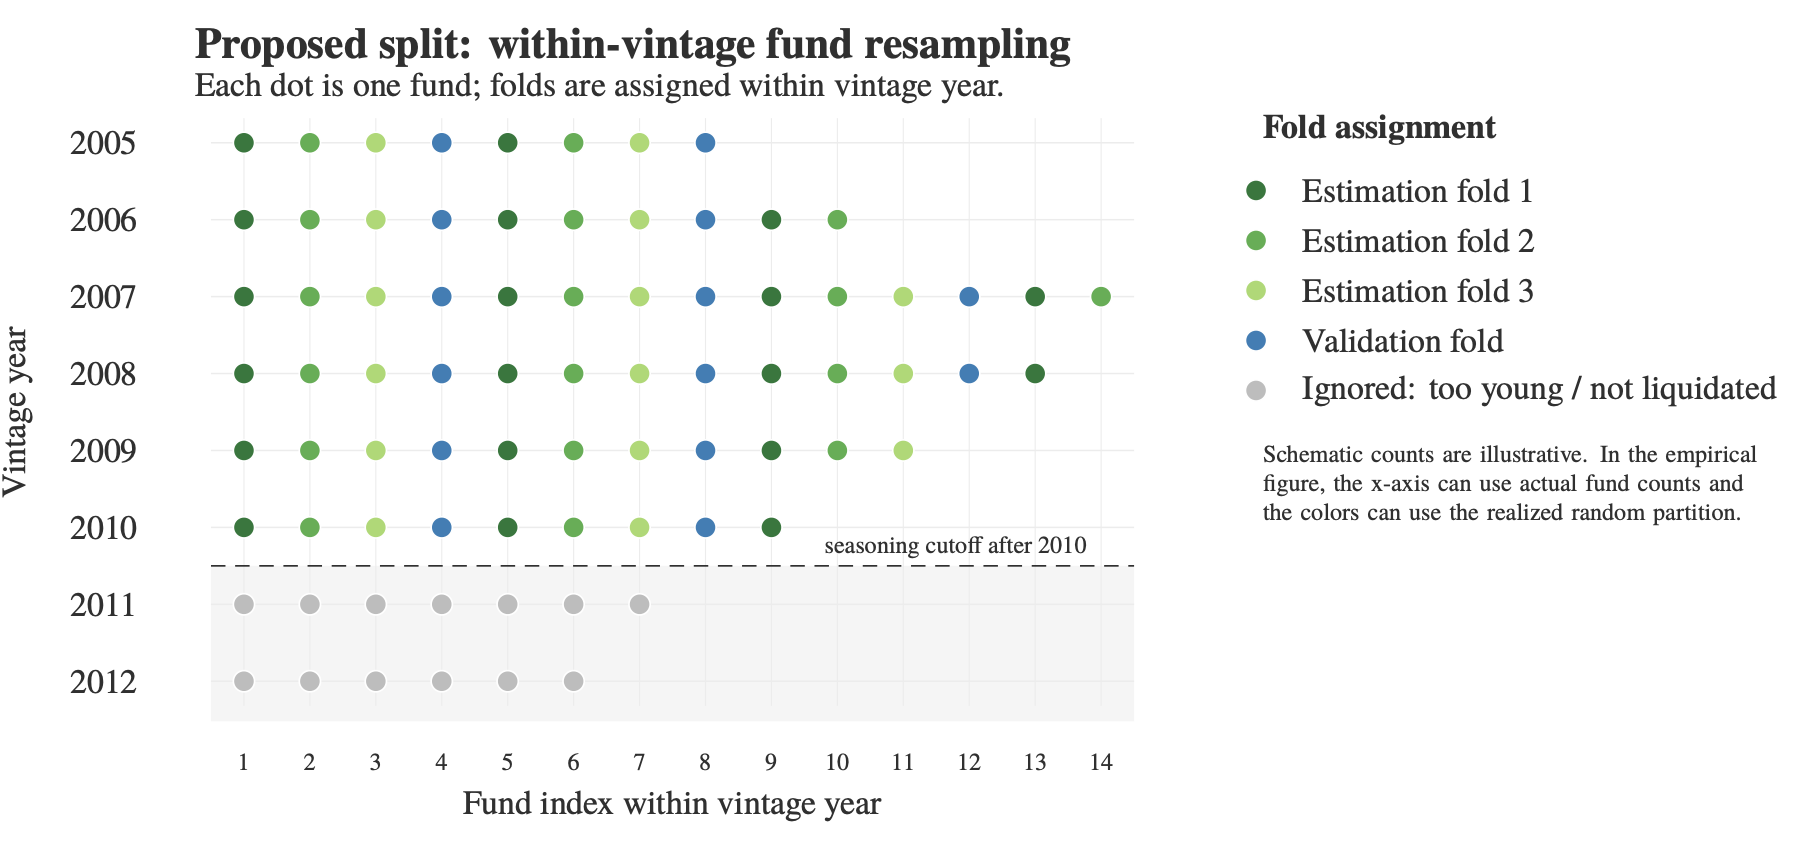
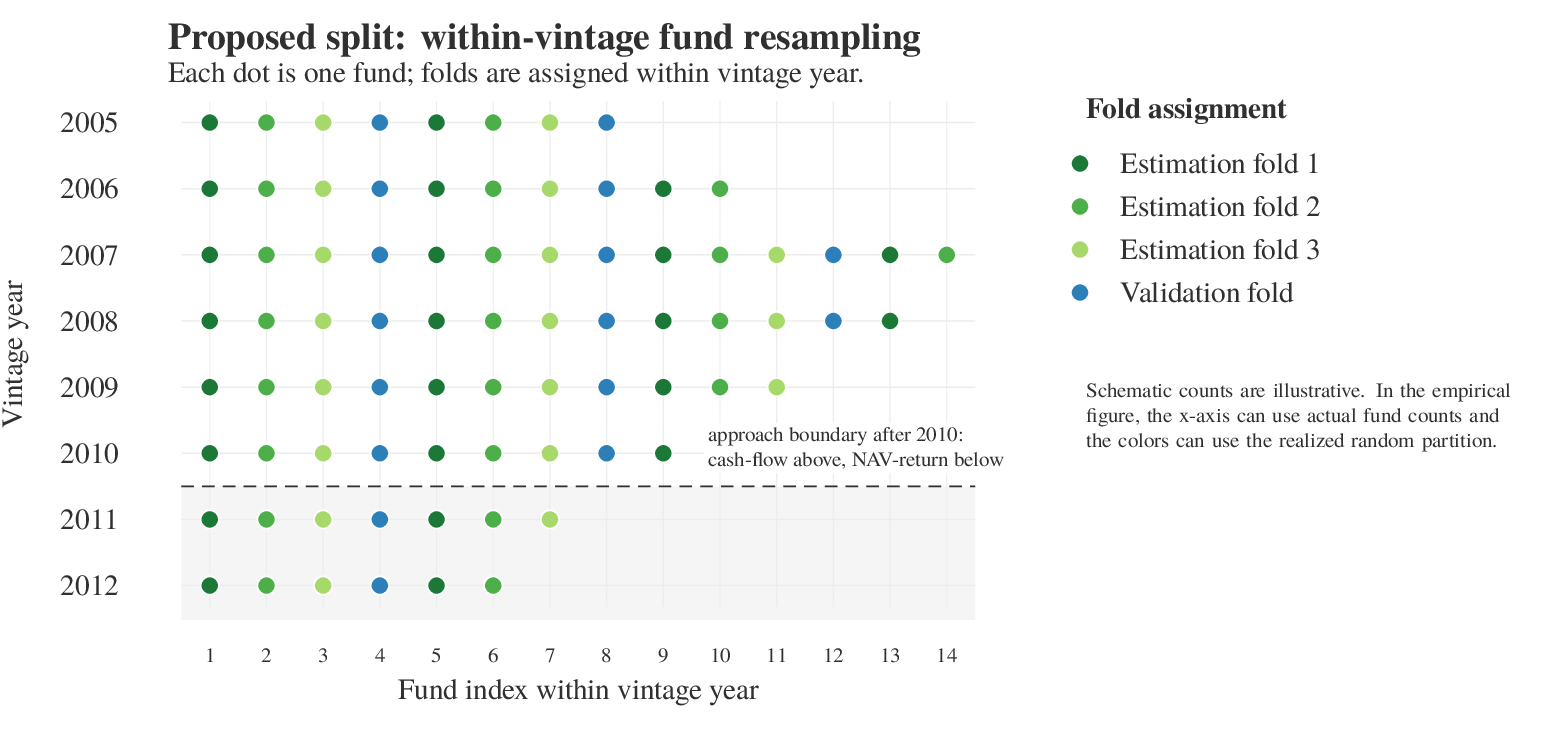
Update Charts

diff --git a/2026_resampling/scripts/plot_sampling_scheme.py b/2026_resampling/scripts/plot_sampling_scheme.py
@@ -29,8 +29,10 @@ VINTAGE_COUNTS = {
     2012: 6,
 }
 
-ACTIVE_VINTAGES = set(range(2005, 2011))
-IGNORED_VINTAGES = {2011, 2012}
+SEASONED_VINTAGES = set(range(2005, 2011))
+UNSEASONED_VINTAGES = {2011, 2012}
+APPROACH_BOUNDARY_YEAR = max(SEASONED_VINTAGES)
+APPROACH_BOUNDARY_LABEL = "approach boundary after 2010:\ncash-flow above, NAV-return below"
 
 FOLD_SEQUENCE = [
     ("estimation_fold_1", "Estimation fold 1", "#1B7837"),
@@ -38,21 +40,14 @@ FOLD_SEQUENCE = [
     ("estimation_fold_3", "Estimation fold 3", "#A6D96A"),
     ("validation_fold", "Validation fold", "#2C7FB8"),
 ]
-IGNORED_FOLD = ("ignored", "Ignored: too young / not liquidated", "#BDBDBD")
 
 
-def build_points(
-    vintage_counts: dict[int, int],
-    ignored_vintages: set[int] = IGNORED_VINTAGES,
-) -> list[dict[str, object]]:
+def build_points(vintage_counts: dict[int, int]) -> list[dict[str, object]]:
     """Return one plotting record per fund dot."""
     points: list[dict[str, object]] = []
     for vintage, count in vintage_counts.items():
         for fund_index in range(1, count + 1):
-            if vintage in ignored_vintages:
-                fold_key, fold_label, color = IGNORED_FOLD
-            else:
-                fold_key, fold_label, color = FOLD_SEQUENCE[(fund_index - 1) % len(FOLD_SEQUENCE)]
+            fold_key, fold_label, color = FOLD_SEQUENCE[(fund_index - 1) % len(FOLD_SEQUENCE)]
             points.append(
                 {
                     "vintage": vintage,
@@ -63,6 +58,24 @@ def build_points(
                 }
             )
     return points
+
+
+def add_approach_boundary(ax, y_pos: dict[int, int]) -> None:
+    ax.axhline(
+        y_pos[APPROACH_BOUNDARY_YEAR] - 0.5,
+        color="#303030",
+        linewidth=0.8,
+        linestyle=(0, (7, 5)),
+    )
+    ax.text(
+        9.55,
+        y_pos[APPROACH_BOUNDARY_YEAR] + 0.05,
+        APPROACH_BOUNDARY_LABEL,
+        fontsize=8.7,
+        color="#303030",
+        va="top",
+        bbox={"boxstyle": "round,pad=0.12", "facecolor": "white", "edgecolor": "none", "alpha": 0.9},
+    )
 
 
 def plot_sampling_scheme(out_dir: Path) -> None:
@@ -98,15 +111,7 @@ def plot_sampling_scheme(out_dir: Path) -> None:
             zorder=3,
         )
 
-    ax.axhline(y_pos[2010] - 0.5, color="#303030", linewidth=0.8, linestyle=(0, (7, 5)))
-    ax.text(
-        9.7,
-        y_pos[2010] - 0.32,
-        "seasoning cutoff after 2010",
-        fontsize=9,
-        color="#303030",
-        va="bottom",
-    )
+    add_approach_boundary(ax, y_pos)
 
     ax.set_title(
         "Example split: three estimation folds plus one validation fold",
@@ -119,7 +124,7 @@ def plot_sampling_scheme(out_dir: Path) -> None:
     ax.text(
         0,
         1.02,
-        "Each dot is one fund; folds are assigned within vintage year.",
+        "Each dot is one fund; folds are assigned within vintage year across both pricing approaches.",
         transform=ax.transAxes,
         fontsize=11,
         color="#303030",
@@ -144,9 +149,9 @@ def plot_sampling_scheme(out_dir: Path) -> None:
 
     handles = [
         Line2D([0], [0], marker="o", linestyle="", markersize=8, markerfacecolor=color, markeredgecolor="white")
-        for _, _, color in FOLD_SEQUENCE + [IGNORED_FOLD]
+        for _, _, color in FOLD_SEQUENCE
     ]
-    labels = [label for _, label, _ in FOLD_SEQUENCE + [IGNORED_FOLD]]
+    labels = [label for _, label, _ in FOLD_SEQUENCE]
     ax.legend(
         handles,
         labels,
@@ -191,7 +196,7 @@ def plot_sampling_scheme_nav_pricing(out_dir: Path) -> None:
         ) from exc
 
     out_dir.mkdir(parents=True, exist_ok=True)
-    points = build_points(VINTAGE_COUNTS, ignored_vintages=set())
+    points = build_points(VINTAGE_COUNTS)
     vintages = sorted(VINTAGE_COUNTS)
     y_pos = {vintage: len(vintages) - 1 - i for i, vintage in enumerate(vintages)}
 
@@ -212,18 +217,10 @@ def plot_sampling_scheme_nav_pricing(out_dir: Path) -> None:
             zorder=3,
         )
 
-    ax.axhline(y_pos[2010] - 0.5, color="#303030", linewidth=0.8, linestyle=(0, (7, 5)))
-    ax.text(
-        9.7,
-        y_pos[2010] - 0.32,
-        "NAV return pricing after 2010",
-        fontsize=9,
-        color="#303030",
-        va="bottom",
-    )
+    add_approach_boundary(ax, y_pos)
 
     ax.set_title(
-        "Example split with NAV pricing: unseasoned vintages are included",
+        "Example split under the NAV-bridged cash-flow estimator",
         loc="left",
         fontsize=15,
         fontweight="bold",
@@ -233,7 +230,7 @@ def plot_sampling_scheme_nav_pricing(out_dir: Path) -> None:
     ax.text(
         0,
         1.02,
-        "Each dot is one fund; folds are assigned within vintage year.",
+        "Each dot is one fund; folds are assigned within vintage year across both pricing approaches.",
         transform=ax.transAxes,
         fontsize=11,
         color="#303030",

diff --git a/2026_resampling/tex/resampling_note.tex b/2026_resampling/tex/resampling_note.tex
@@ -11,6 +11,7 @@
 \usepackage{booktabs}
 \usepackage{graphicx}
 \usepackage{hyperref}
+\usepackage{float}
 
 \setlength{\parindent}{0pt}
 \setlength{\parskip}{0.5em}
@@ -30,10 +31,10 @@ The paper asks a simple empirical question: which stochastic discount factor (SD
 Three difficulties make this question hard to answer with existing methods.
 
 \textbf{Difficulty 1: moment construction matters.}
-Private-equity samples are small, lumpy, and organized by vintage year. An SDF model can look good or bad depending on how funds are grouped into pricing moments. Existing approaches commit to one grouping---typically single funds or vintage-year portfolios---and treat it as fixed. But the choice of grouping is itself consequential for estimation, and there is no a priori reason to prefer one admissible grouping over another.
+Private-equity samples are small, lumpy, and organized by vintage year. An SDF model can look good or bad depending on how funds are grouped into pricing moments. Existing approaches commit to one grouping---typically single funds (e.g., \cite{AngChenGoetzmannPhalippou2018}) or vintage-year portfolios (e.g., \cite{DriessenLinPhalippou2012})--and treat it as fixed. But the choice of grouping is itself consequential for estimation, and there is no a priori reason to prefer one admissible grouping over another.
 
 \textbf{Difficulty 2: unseasoned vintages create a dilemma.}
-Recent vintage years carry valuable pricing information---they reflect current market conditions and expand the factor-path coverage of the sample---but including them naively destabilizes estimation. The standard approach treats the latest reported NAV as a terminal cash flow and discounts it over the fund's entire remaining horizon. This creates two problems. First, it concentrates a large share of the fund's discounted value at a single calendar date---the dataset endpoint---so that the estimator's fit becomes disproportionately sensitive to the macro state at that date rather than to the fund's lifetime factor exposure. Second, the terminal NAV is an appraisal, not a realized payoff; its co-movement with public indices may differ systematically from that of actual divestitures. Researchers therefore face a dilemma: exclude recent vintages and waste data, or include them and accept fragile estimates driven by one macro-state realization.
+Recent vintage years carry valuable pricing information---they reflect current market conditions and expand the factor-path coverage of the sample---but including them naively destabilizes (or biases) estimation. The standard approach treats the latest reported NAV as a terminal cash flow and discounts it over the fund's entire remaining horizon. This creates two problems. First, it concentrates a large share of the fund's discounted value at a single calendar date---the dataset endpoint---so that the estimator's fit becomes disproportionately sensitive to the macro state at that date rather than to the fund's lifetime factor exposure. Second, the terminal NAV is an appraisal, not a realized payoff; its co-movement with public indices may differ systematically from that of actual divestitures. Researchers therefore face a dilemma: exclude recent vintages and waste data, or include them and accept fragile estimates driven by one macro-state realization.
 
 \textbf{Difficulty 3: exploding-alpha degeneracy in finite samples.}
 Independently of the unseasoned-vintage problem, NPV-style SDF estimation suffers from a finite-sample pathology first documented by \citet{DriessenLinPhalippou2012}. In the standard multiplicative SDF parameterization, cash flows are discounted by a cumulative factor that includes \((1+\alpha)^{-T}\). When \(\alpha\) is large and positive, this factor drives all discount factors toward zero for large \(T\), making every fund's pricing error approximately zero regardless of the factor loadings~\(\beta\). The result is a ridge of spurious near-minima along the alpha axis of the objective function that prevents reliable joint identification of \(\alpha\) and~\(\beta\). The problem is most severe when fund horizons are long and early cash flows are small relative to later ones, which is precisely the cash-flow shape of a typical PE fund. Existing mitigants include ratio or log transformations of the pricing restriction \citep{DriessenLinPhalippou2008WP}, horizon averaging, and box constraints on~\(\alpha\), but none eliminates the underlying mechanism.
@@ -64,22 +65,22 @@ Suppose a candidate SDF has three parameters: an alpha term and two factor loadi
 \item build three estimation folds,
 \item build one validation fold,
 \item estimate the SDF on the three estimation moments,
-\item score the fitted SDF on the validation moment.
+\item score the fitted SDF on the validation moment (calculate out-of-sample pricing error).
 \end{itemize}
 
-Figures \ref{fig:sampling-scheme} and \ref{fig:vintage-portfolio-scheme} show the two benchmark ways to build these folds. In both figures, each dot is one fund and the active vintages are 2005--2010. Vintages 2011--2012 are excluded because they are too young or not sufficiently liquidated.
+Figures \ref{fig:sampling-scheme} and \ref{fig:vintage-portfolio-scheme} show the two baseline ways to build these folds. In both figures, each dot is one fund. Vintages 2005--2010 lie above the approach boundary and use cash-flow discounting, while vintages 2011--2012 lie below it and use the NAV-return discounting approach.
 
-\begin{figure}[t]
+\begin{figure}[H]
 \centering
 \includegraphics[width=\linewidth]{../figure/sampling_scheme.pdf}
 \caption{Proposed within-vintage fund resampling scheme. Each active vintage is split into three estimation cells and one validation cell. Fold 1 contains the dark-green funds from every vintage, fold 2 contains the medium-green funds from every vintage, fold 3 contains the light-green funds from every vintage, and the validation fold contains the blue funds from every vintage.}
 \label{fig:sampling-scheme}
 \end{figure}
 
-\begin{figure}[t]
+\begin{figure}[H]
 \centering
 \includegraphics[width=\linewidth]{../figure/sampling_scheme_vintage_portfolios.pdf}
-\caption{Traditional shuffled vintage-year portfolio scheme. Funds are first aggregated into whole vintage-year portfolios, and whole vintages are then assigned to folds. Here, 2005 and 2009 enter estimation fold 1, 2006 and 2010 enter estimation fold 2, 2007 enters estimation fold 3, and 2008 is the validation fold.}
+\caption{Traditional shuffled vintage-year portfolio scheme. Funds are first aggregated into whole vintage-year portfolios, and whole vintages are then assigned to folds. Here, 2005 and 2009 enter estimation fold 1, 2006 and 2010 enter estimation fold 2, 2007 and 2011 enter estimation fold 3, and 2008 and 2012 form the validation fold.}
 \label{fig:vintage-portfolio-scheme}
 \end{figure}
 
@@ -292,9 +293,8 @@ unseasoned vintages \(\mathcal V^U\) into a PME framework typically requires
 treating the latest \(\mathrm{NAV}_{T_i,i}\) as a terminal distribution and
 discounting it over the fund's entire remaining horizon --- exactly the
 long-horizon discounting mechanism that motivates \(\epsilon^U\) in
-Section~\ref{sec:euler_nav}. The PME-ratio framework therefore reintroduces
-the exploding-alpha sensitivity for \(\mathcal V^U\) that the NPV/Euler
-combination was designed to eliminate.
+Section~\ref{sec:euler_nav}. 
+%The PME-ratio framework therefore reintroduces the exploding-alpha sensitivity for \(\mathcal V^U\) that the NPV/Euler combination was designed to eliminate.
 (iv)~\emph{Inference.} Upper-tail skewness in \(\mathrm{PME}_i\) (funds can
 return many times their capital, but cannot lose more than it) distorts
 CLT-based standard errors and \(t\)-statistics unless explicitly
@@ -371,7 +371,7 @@ The paper should still compare alpha definitions:
 
 \begin{itemize}
 \item \textbf{Cumulative alpha:} the recommended baseline, estimated from benchmark-discounted cash flows.
-\item \textbf{Error-term alpha:} alpha as the mean pricing-error component, as in the machine-learning approach of \citet{TauschPietz2024}.
+\item \textbf{Error-term alpha ($\mathbb{E}[\epsilon]$):} alpha as the mean error-term component, as in the machine-learning approach of \citet{TauschPietz2024}.
 \item \textbf{Intercept alpha:} a DLP12-style robustness specification, useful for comparison but vulnerable to exploding-alpha behavior in small or weakly identified samples \citep{DriessenLinPhalippou2012,DriessenLinPhalippou2008WP}.
 \end{itemize}
 
@@ -393,7 +393,7 @@ Together, these mechanisms ensure that the exploding-alpha issue is a finite-sam
 \section{Euler NAV Restrictions for Unseasoned Vintages}
 \label{sec:euler_nav}
 
-The empirical algorithm in Section~\ref{sec:algorithm} excludes insufficiently seasoned vintages. This wastes data from recent vintages that carry useful pricing information. Including them naively---by treating the latest reported NAV as a terminal distribution---amplifies alpha instability, because a single large NAV position is discounted over the fund's entire remaining horizon.
+Excluding insufficiently seasoned vintages in the empirical algorithm in Section~\ref{sec:algorithm}, wastes data from recent vintages that carry useful pricing information. Including them naively---by treating the latest reported NAV as a terminal distribution---amplifies alpha instability, because a single large NAV position is discounted over the fund's entire remaining horizon.
 
 We propose a different treatment. For unseasoned vintages, replace the single cumulative pricing restriction with a sequence of one-period Euler restrictions on quarterly NAV returns. This retains the information from recent vintages while avoiding long-horizon discounting. The resulting estimator is a \emph{NAV-bridged cash-flow estimator}: asymptotically a pure cash-flow estimator, with well-conditioned finite-sample corrections for young funds.
 

diff --git a/2026_resampling/figure/sampling_scheme.tex b/2026_resampling/figure/sampling_scheme.tex
@@ -10,7 +10,6 @@
 \definecolor{esttwo}{HTML}{4DAF4A}
 \definecolor{estthree}{HTML}{A6D96A}
 \definecolor{validblue}{HTML}{2C7FB8}
-\definecolor{ignoredgray}{HTML}{BDBDBD}
 \definecolor{gridgray}{HTML}{ECECEC}
 \definecolor{textgray}{HTML}{303030}
 \definecolor{bandgray}{HTML}{F5F5F5}
@@ -33,7 +32,7 @@
 	\node[anchor=west, font=\scriptsize, text=textgray] at (0,0.72)
 		{Each dot is one fund; folds are assigned within vintage year.};
 
-	% Light background for young vintages excluded from estimation and validation.
+	% Light background for young vintages below the approach boundary.
 	\fill[bandgray] (0.5,-5.5) rectangle (14.5,-7.52);
 
 	% Grid and y-axis labels.
@@ -83,14 +82,18 @@
 	\funddot{5}{-5}{estone} \funddot{6}{-5}{esttwo} \funddot{7}{-5}{estthree} \funddot{8}{-5}{validblue}
 	\funddot{9}{-5}{estone}
 
-	% 2011 and 2012: ignored because these vintages are too young / not liquidated enough.
-	\foreach \x in {1,...,7} {\funddot{\x}{-6}{ignoredgray}}
-	\foreach \x in {1,...,6} {\funddot{\x}{-7}{ignoredgray}}
+	% 2011: 7 funds.
+	\funddot{1}{-6}{estone} \funddot{2}{-6}{esttwo} \funddot{3}{-6}{estthree} \funddot{4}{-6}{validblue}
+	\funddot{5}{-6}{estone} \funddot{6}{-6}{esttwo} \funddot{7}{-6}{estthree}
 
-	% Cutoff annotation.
+	% 2012: 6 funds.
+	\funddot{1}{-7}{estone} \funddot{2}{-7}{esttwo} \funddot{3}{-7}{estthree} \funddot{4}{-7}{validblue}
+	\funddot{5}{-7}{estone} \funddot{6}{-7}{esttwo}
+
+	% Approach-boundary annotation.
 	\draw[densely dashed, textgray, line width=0.35pt] (0.5,-5.5) -- (14.5,-5.5);
-	\node[anchor=west, font=\tiny, text=textgray] at (9.55,-5.25)
-		{seasoning cutoff after 2010};
+	\node[anchor=west, align=left, font=\tiny, text=textgray, fill=white, fill opacity=0.9, text opacity=1, inner sep=1pt] at (9.7,-4.92)
+		{approach boundary after 2010:\\cash-flow above, NAV-return below};
 
 	% Legend, placed to the right to avoid crowding the x-axis.
 	\node[anchor=west, font=\bfseries\scriptsize, text=textgray] at (16.2,0.18)
@@ -107,9 +110,6 @@
 	\funddot{16.35}{-2.57}{validblue}
 	\node[anchor=west, font=\scriptsize, text=textgray] at (16.8,-2.57)
 		{Validation fold};
-	\funddot{16.35}{-3.22}{ignoredgray}
-	\node[anchor=west, font=\scriptsize, text=textgray] at (16.8,-3.22)
-		{Ignored: too young / not liquidated};
 
 	\node[anchor=west, align=left, text width=3.7cm, font=\tiny, text=textgray] at (16.2,-4.45)
 		{Schematic counts are illustrative. In the empirical figure, the x-axis can use actual fund counts and the colors can use the realized random partition.};